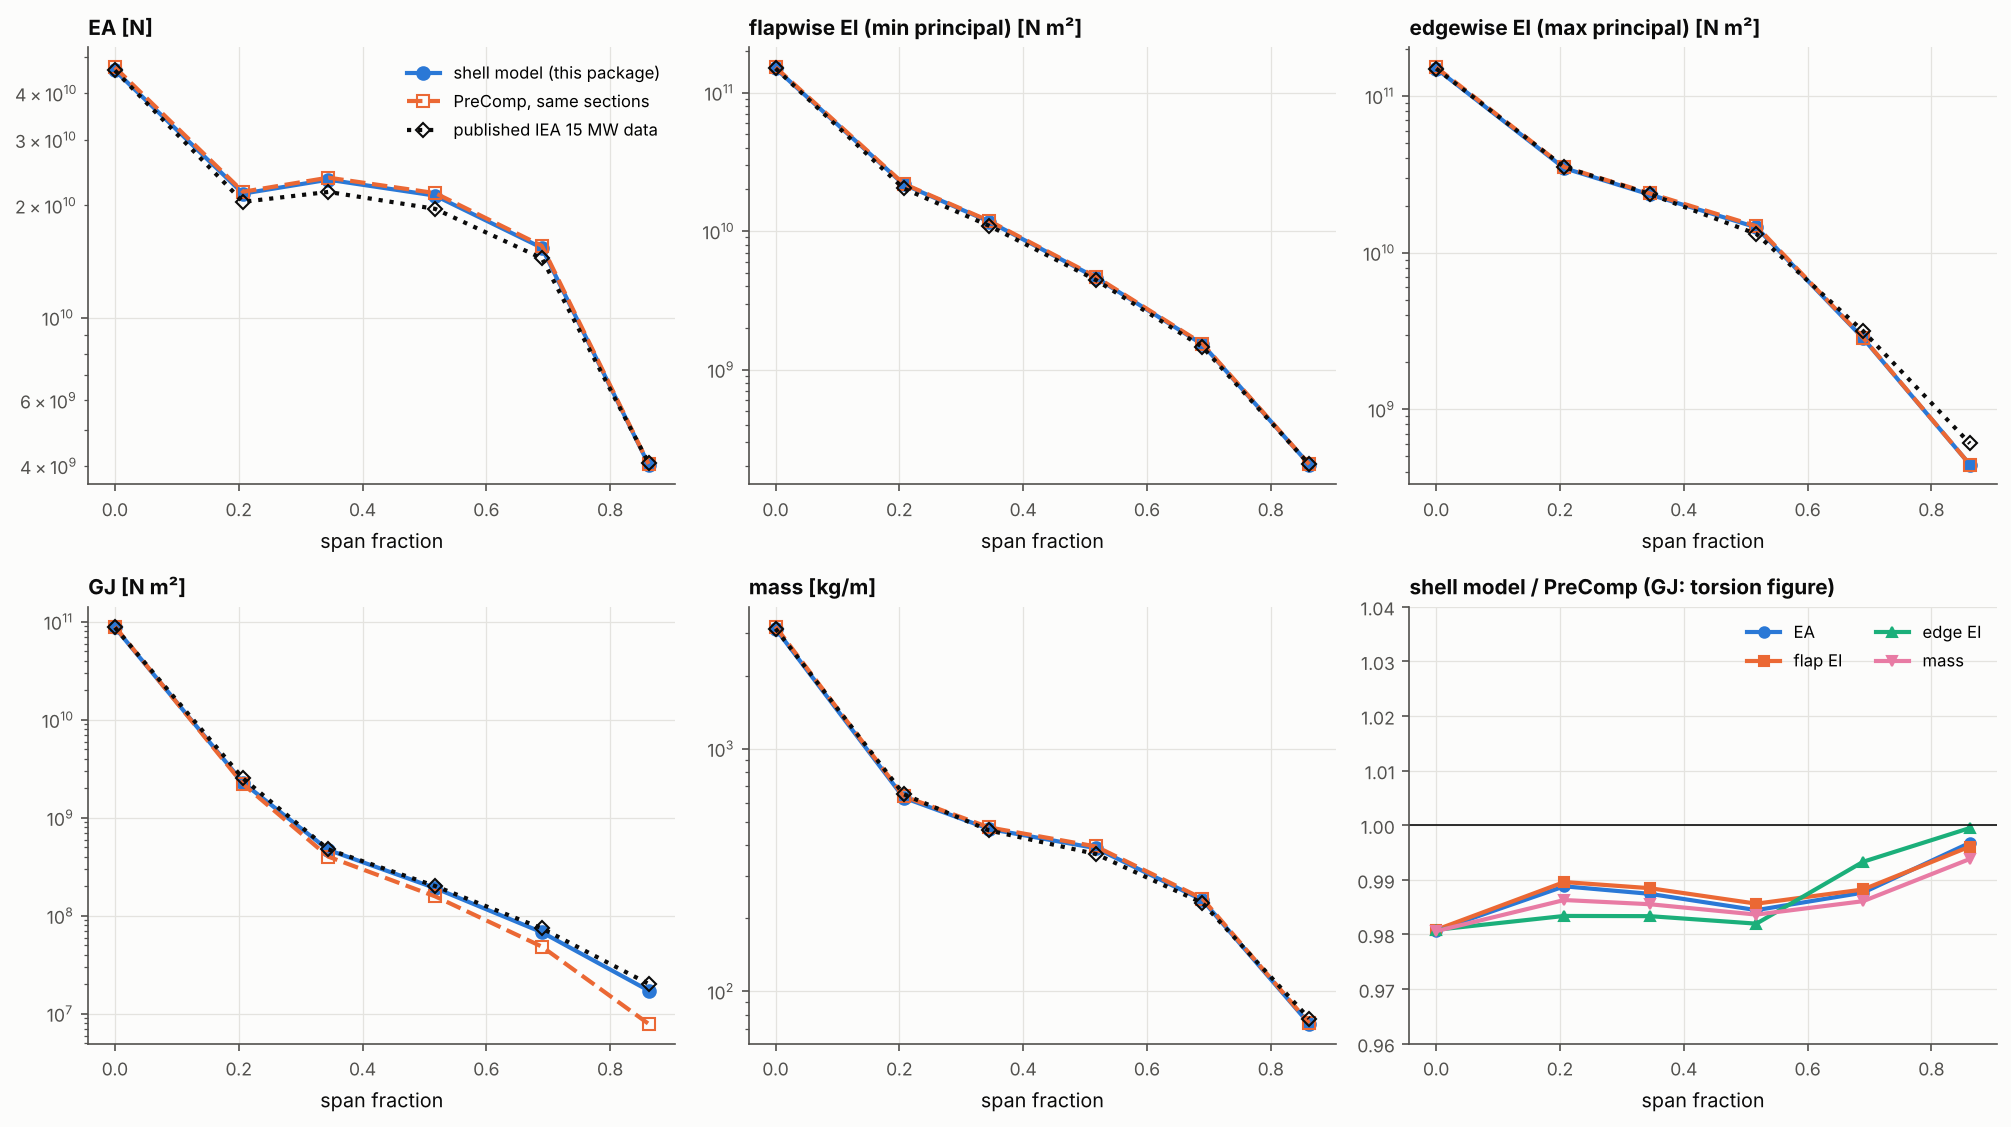
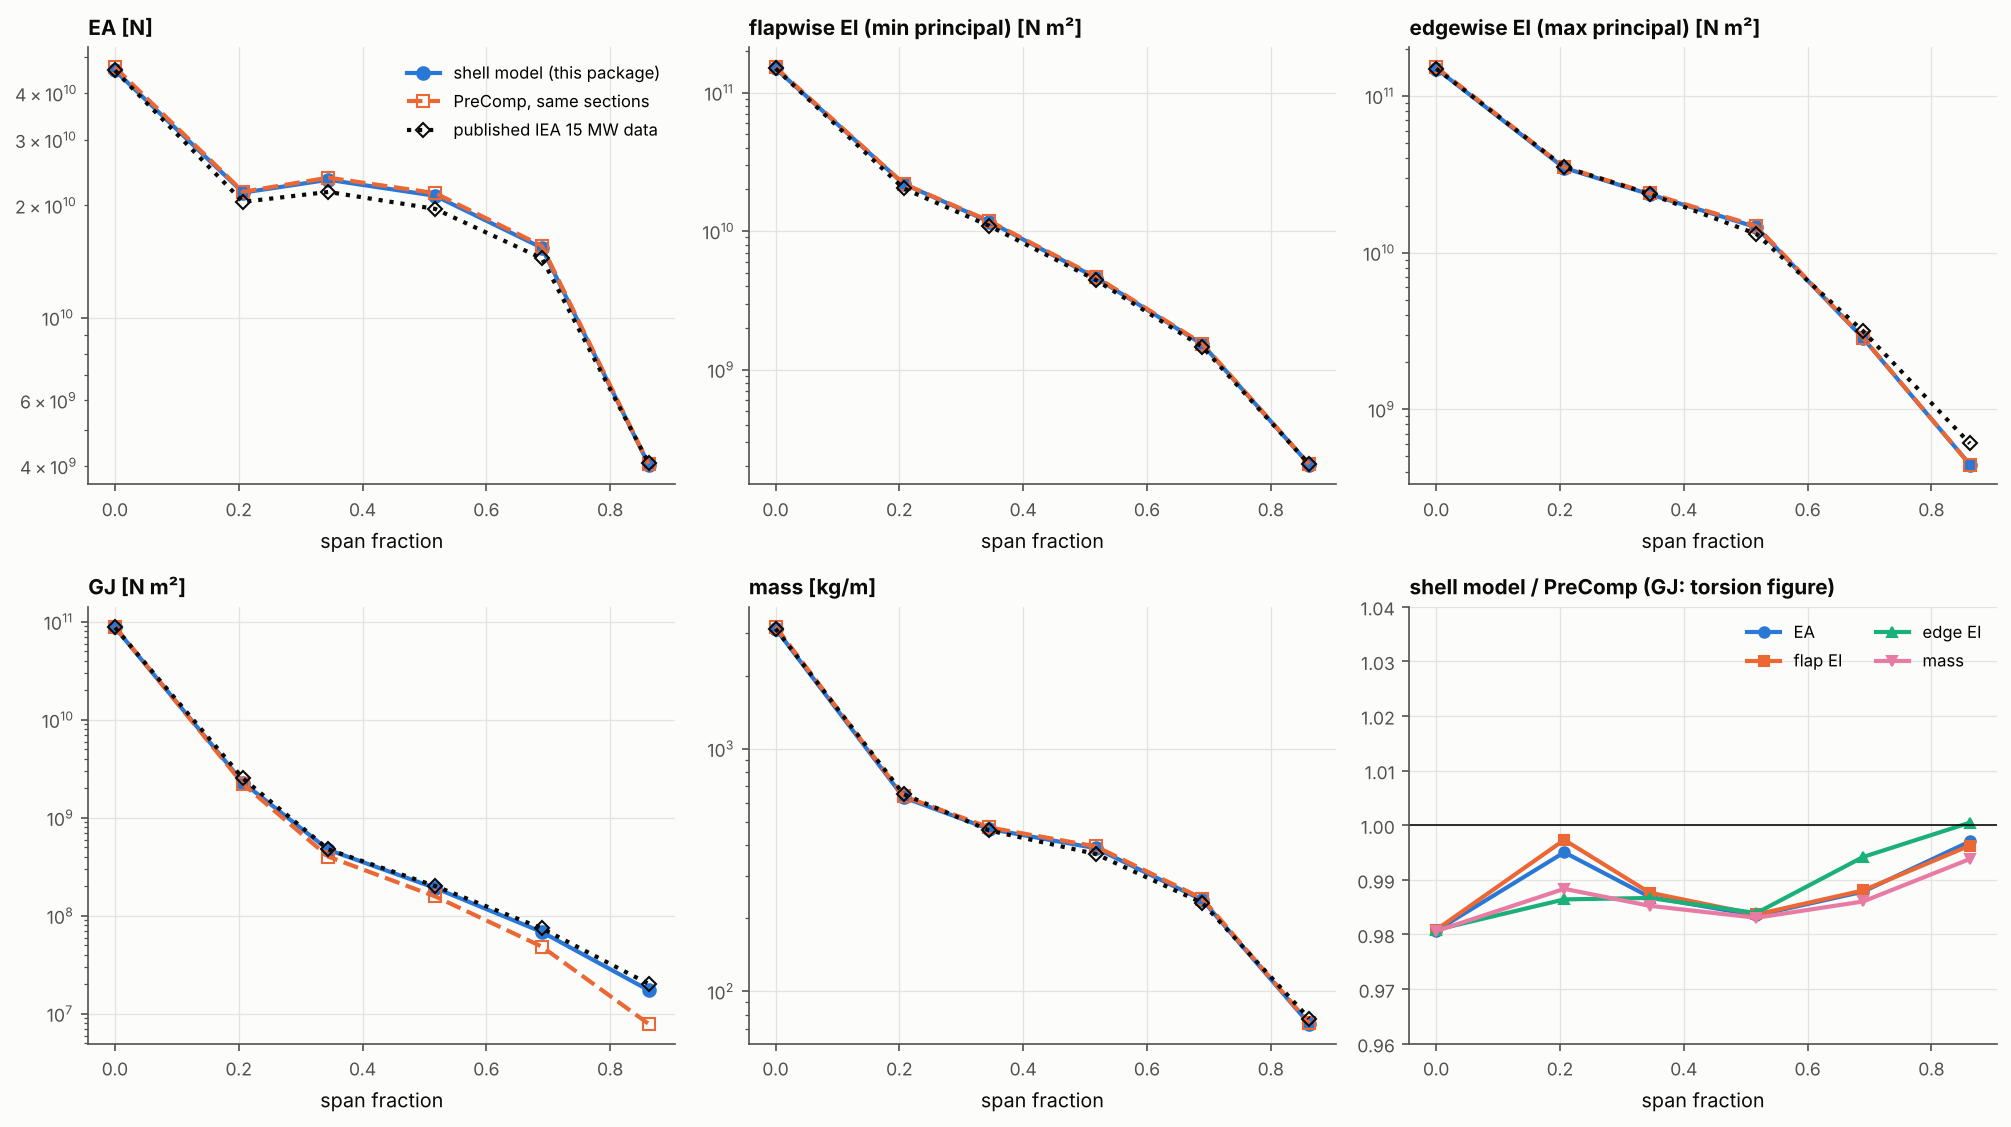
Re-run example 24 on the mid-surface default; update READMEs

Changed region(s): [[0.7091, 0.7143, 0.9866, 0.8385]]

diff --git a/examples/24_iea15mw_section_properties/README.md b/examples/24_iea15mw_section_properties/README.md
@@ -11,7 +11,7 @@ published data.
 
 ![EA, EI, GJ and mass along the span: shell model, PreComp and the published data](figures/iea15mw_properties.png)
 
-![Torsion of offset skins on flat and curved shells: a thick tube and the blade](figures/iea15mw_torsion.png)
+![Torsion: a thick tube meshed on its mid-surface and on its outer surface, and GJ of the blade](figures/iea15mw_torsion.png)
 
 ## The reference data
 
@@ -40,10 +40,10 @@ chord frame, for a prismatic segment.
 | Item | Value |
 |---|---|
 | Segment | Prismatic, 8 chords long, properties measured over the middle fifth |
-| Elements | Curved Quad8 FSDT, 32 along the span, chordwise size 1.5% of the perimeter (2300–3600 elements); a Quad4 model (40 along the span, 1%) for the torsion comparison |
-| Skins | On the outer mould line, laminates growing inward, as PreComp has them |
-| Regions | Every sector boundary on either surface and every web is a region boundary; each region takes its surface's sector laminate |
-| Webs | Straight, between the skins' outer mould lines at the PreComp web positions, as PreComp has them |
+| Elements | Curved Quad8 FSDT, 32 along the span, chordwise size 1.5% of the perimeter (2300–3400 elements); a Quad4 model (40 along the span, 1%) for the torsion comparison |
+| Skins | Laminates growing inward from the outer mould line, as PreComp has them, meshed on their mid-surface (the `BladeBuilder` default) |
+| Regions | Every sector boundary on either surface and every web is a region boundary (boundaries closer than 0.3% of the chord merged); each region takes its surface's sector laminate |
+| Webs | Straight, at the PreComp web positions, between the skins' mid-surfaces |
 | Trailing edge | Flatbacks closed by a web with the trailing-edge laminate; gaps under 1% of the chord are pinched closed |
 
 ```bash
@@ -76,36 +76,45 @@ It takes about 15 minutes (six curved-Quad8 and six Quad4 models).
    bending stiffnesses and GJ. Its axes turn out to be chord-aligned (its tension
    centre matches PreComp's at every station), so its shear centre is shown too.
 
-3. **Torsion check.** A thick steel tube with a known GJ is run with the skin on
-   its mid-surface and offset to its outer surface, on flat and curved shells.
+3. **Torsion check.** A thick steel tube with a known GJ is meshed on its
+   mid-surface (the default) and on its outer surface with the skin offset
+   inward, on flat and curved shells.
 
 ## Results
 
 | Station r [m] | EA | EI flap | EI edge | GJ | mass | tension centre x/c | shear centre x/c (shell / PreComp / published) |
 |---|---|---|---|---|---|---|---|
-| 4.0 | 1.000 | 1.000 | 1.000 | 0.952 | 1.000 | 0.500 / 0.500 | 0.494 / 0.500 / 0.500 |
-| 28.2 | 1.001 | 1.001 | 1.003 | 1.003 | 1.000 | 0.420 / 0.420 | 0.317 / 0.418 / 0.322 |
-| 44.3 | 1.001 | 1.000 | 1.000 | 1.155 | 1.000 | 0.367 / 0.366 | 0.285 / 0.362 / 0.290 |
-| 64.5 | 1.001 | 1.001 | 1.001 | 1.197 | 1.000 | 0.355 / 0.355 | 0.262 / 0.353 / 0.268 |
-| 84.7 | 1.000 | 1.001 | 0.998 | 1.373 | 0.999 | 0.320 / 0.320 | 0.233 / 0.320 / 0.255 |
-| 104.8 | 1.001 | 1.001 | 1.001 | 2.143 | 1.000 | 0.332 / 0.333 | 0.249 / 0.333 / 0.279 |
+| 4.0 | 0.981 | 0.981 | 0.981 | 0.981 | 0.981 | 0.500 / 0.500 | 0.500 / 0.500 / 0.500 |
+| 28.2 | 0.995 | 0.998 | 0.986 | 1.038 | 0.988 | 0.419 / 0.420 | 0.311 / 0.418 / 0.322 |
+| 44.3 | 0.987 | 0.988 | 0.986 | 1.174 | 0.985 | 0.365 / 0.366 | 0.284 / 0.362 / 0.290 |
+| 64.5 | 0.983 | 0.984 | 0.984 | 1.218 | 0.983 | 0.354 / 0.355 | 0.264 / 0.353 / 0.268 |
+| 84.7 | 0.988 | 0.988 | 0.994 | 1.410 | 0.986 | 0.319 / 0.320 | 0.237 / 0.320 / 0.255 |
+| 104.8 | 0.997 | 0.996 | 1.001 | 2.208 | 0.994 | 0.332 / 0.333 | 0.250 / 0.333 / 0.279 |
 
 Stiffness and mass columns are shell model / PreComp.
 
-- **Axial, bending, mass, tension centre: agree.** EA, both bending stiffnesses
-  and the mass are within 0.3% of PreComp at every station,
-  and the tension and mass centres within 0.1% of the chord. Since the geometry,
-  layup and materials are identical, this checks the section builder (airfoil,
-  sector mapping, laminate order, offsets, webs) and the stiffness extraction.
+- **Axial, bending, mass, tension centre: 0–2% below PreComp, for a known
+  reason.** EA, both bending stiffnesses and the mass are 0.981–1.001 of PreComp,
+  and the tension and mass centres agree within 0.1% of the chord. PreComp takes
+  each laminate's area as its mould-line length × thickness. The shell model,
+  meshed on the mid-surface, takes the mid-wall length, which is shorter by
+  about π t around a closed section. At the root tube (t/R = 0.04) that is the
+  1 − t/2R = 0.981 of the table, and there the shell model matches the published
+  data exactly: EA 4.605e10 against 4.605e10, mass 3127 against 3127 kg/m, GJ
+  8.756e10 against 8.749e10. With the skins left on the mould line
+  (`mesh_surface="outer"`), the shell model counts the same mould-line area as
+  PreComp and agrees with it within 0.3% at every station (example 26).
+  Either way the geometry, layup and materials are identical, so this checks the
+  section builder (airfoil, sector mapping, laminate order, webs) and the
+  stiffness extraction.
 - **Shear centre: follows the published data, not PreComp.** PreComp puts the
   shear centre on top of the tension centre at every station. The shell model
   puts it 8–10% of the chord further forward, between the webs, within 0.6% of
   the chord of the published value inboard and 2–3% outboard.
 - **GJ: between PreComp and the published data, closer to the published.** At
-  the root tube the shell model is 3% under the published GJ (the offset skin's
-  area is taken on the outer surface, as in the tube check) and PreComp is 2%
-  over it. Outboard, PreComp falls below half of the published GJ while the shell
-  model stays within 3–16% of it. PreComp's torsion comes from a simplified
+  the root tube the shell model is within 0.1% of the published GJ and PreComp is
+  2% over it. Outboard, PreComp falls below half of the published GJ while the
+  shell model stays within 1–14% of it. PreComp's torsion comes from a simplified
   thin-wall shear-flow model, and published comparisons with finite-element
   section tools (VABS, BECAS) report its torsional stiffness and shear centre as
   its least reliable outputs, which is what this shows.
@@ -115,28 +124,31 @@ Stiffness and mass columns are shell model / PreComp.
 
 ### Offset skins on flat shells lose torsion
 
-The torsion figure is the finding of this check. With the skin offset to the
-outer surface, flat facets (Quad4 and flat Quad8) under-predict the torsional
-stiffness of a thick tube: by 2% at t/R = 0.01, 7% at 0.02, 22% at 0.04 and 35% at
-0.06, and refining the mesh does not help. With the skin on its mid-surface the
-same Quad4 mesh is exact, and curved Quad8 with the offset is within 1–3% (the
-rest is the offset skin's area, taken on the outer surface; EA is high by the
-same amount). Bending and axial stiffness are not affected.
+The torsion figure is why the skins are meshed on their mid-surface. Meshed on the
+outer surface with the skin offset inward, flat facets (Quad4 and flat Quad8)
+under-predict the torsional stiffness of a thick tube: by 2% at t/R = 0.01, 7% at
+0.02, 22% at 0.04 and 35% at 0.06, and refining the mesh does not help. Meshed on
+its mid-surface the same Quad4 mesh is exact (0.999 at every thickness), and
+curved Quad8 with the offset is within 1–3% (the rest is the offset skin's area,
+taken on the outer surface; EA is high by the same amount). Bending and axial
+stiffness are not affected.
 
-On the blade this costs the Quad4 model 20% of GJ at the root tube (t/R = 0.04)
-and 6% at the max-chord station; elsewhere it is within 5% of curved Quad8. The
-likely mechanism: at a kink between two flat facets, a node's rotation about its
-own normal is a bending rotation for the neighbouring facets, and through the
-offset it moves their mid-surfaces in-plane at little cost (the error grows as
-the drilling stiffness is lowered). Curved Quad8 has a continuous normal and no
-kinks. Until the flat elements are fixed, use `element="quad8_curved"` where
-torsion of thick-walled sections matters; `tests/test_blade.py` records the
-limitation as an expected failure.
+On the blade, with the mid-surface default, the Quad4 model agrees with
+curved Quad8 in GJ within 1.3% at every station (0.980 against 0.981 of PreComp at the root
+tube). On the mould line with offsets it lost 20% of GJ at the root tube and 6% at
+max chord (example 26). The likely mechanism: at a kink between two flat facets, a
+node's rotation about its own normal is a bending rotation for the neighbouring
+facets, and through the offset it moves their mid-surfaces in-plane at little cost
+(the error grows as the drilling stiffness is lowered). Curved Quad8 has a
+continuous normal and no kinks. `tests/test_blade.py` records the limitation on
+mould-line meshes as an expected failure.
 
 ## Things to try
 
 - Add stations: edit `TARGETS` in `data/prepare_reference_data.py` and rerun it
   (needs `pip install wisdem pyyaml`).
-- Set `QUAD4` as the main model to see the root-tube GJ fall.
+- Pass `mesh_surface="outer"` to `build_segment` to put the skins back on the
+  mould line: EA and mass then match PreComp within 0.3%, and the Quad4 root-tube
+  GJ falls by 20%.
 - Compare the flap-edge coupling `EI_flap_edge` with PreComp's `EI_flap_edge`
   in the JSON, both in the chord frame.

diff --git a/README.md b/README.md
@@ -393,7 +393,7 @@ CalculiX, PreComp and the published IEA 15 MW data (see the
 - Layered Hex8 and Hex20 solids against Pagano within about 1–2% (deflection and stresses), shell–solid coupling within 0.1% of an all-shell model, and curved Quad8 within 0.2% of CalculiX S8R on a curved panel.
 - Beam section properties of a thin circular tube against closed-form EA, EI and GJ (exact with curved Quad8, about 1% with Quad4), and RBE2/RBE3 links against hand calculations.
 - A direct comparison with CalculiX, which runs only when `ccx` is installed. On the benchmark plate, displacements agree within about 2% and in-plane ply stresses within about 3%.
-- The IEA 15 MW reference blade ([example 24](https://github.com/samhughes-fea/composite-laminate-fea/tree/main/examples/24_iea15mw_section_properties/)): from its published layup, EA, EI, mass and the tension centre agree with PreComp on the same sections within 0.3% at six stations; the shear centre follows the published reference data rather than PreComp, and GJ lies between the two, close to the published data outboard, where PreComp's thin-wall torsion falls to half of it. A 20 m segment of the same blade ([example 25](https://github.com/samhughes-fea/composite-laminate-fea/tree/main/examples/25_blade_calculix_crosscheck/)) agrees with CalculiX S8R within about 1% in deflection, 2% in twist and 6% in spar-cap fibre stress.
+- The IEA 15 MW reference blade ([example 24](https://github.com/samhughes-fea/composite-laminate-fea/tree/main/examples/24_iea15mw_section_properties/)): from its published layup, the tension centre agrees with PreComp on the same sections within 0.1% of the chord at six stations, and EA, EI and mass are 0–2% below PreComp because the mid-surface mesh takes each wall's mid-line length where PreComp takes the mould line (on the mould line they agree within 0.3%). At the root tube the shell model matches the published EA, GJ and mass within 0.1%. The shear centre follows the published reference data rather than PreComp, and GJ lies between the two, close to the published data outboard, where PreComp's thin-wall torsion falls to half of it. A 20 m segment of the same blade ([example 25](https://github.com/samhughes-fea/composite-laminate-fea/tree/main/examples/25_blade_calculix_crosscheck/)) agrees with CalculiX S8R within 0.2% in deflection, 1.2% in twist and 6% in spar-cap fibre stress.
 
 ## Limitations
 

diff --git a/examples/README.md b/examples/README.md
@@ -37,9 +37,9 @@ and how to read the results.
 | 21 | [Spar cap ply drops](21_spar_cap_ply_drops/) | A tapered, twisted blade whose caps come from a ply book with ply drops, against a thin-walled beam; per-ply failure; ParaView output | `Layup`, `PlyDefinition`, `write_vtu` |
 | 22 | [Ply drop in 3D](22_ply_drop_solid_detail/) | Interlaminar shear and peel at a cap ply drop from layered Hex20 solids inside a shell model; equilibrium checks and a mesh study of the corner singularity | `solid_block`, `merge_coincident_nodes`, `couple_shell_to_solid` |
 | 23 | [Sandwich blade segment](23_blade_segment/) | Foam-cored panels, caps and webs under pressure, gravity and outboard loads; shell against beam | `distributing_link`, `beam_section_properties`, `write_vtu` |
-| 24 | [IEA 15 MW section properties](24_iea15mw_section_properties/) | The published reference blade at six stations against PreComp and the published data; torsion of offset skins on flat and curved shells | `BladeBuilder`, `beam_section_properties` |
+| 24 | [IEA 15 MW section properties](24_iea15mw_section_properties/) | The published reference blade at six stations against PreComp and the published data; why skins are meshed on their mid-surface (torsion of offset skins on flat shells) | `BladeBuilder`, `beam_section_properties` |
 | 25 | [CalculiX on a blade segment](25_blade_calculix_crosscheck/) | A 20 m IEA 15 MW segment under operating loads: deflection, twist and ply stresses against CalculiX S8R | `CalculiXKernelAdapter`, `AnalysisModel` |
-| 26 | [Mid-surface meshing](26_mid_surface_meshing/) | Skins on the mould line with offsets or on their mid-surface: thick-tube torsion and six IEA 15 MW stations, for Quad4, flat and curved Quad8 | `BladeBuilder(mesh_surface="mid")`, `BladeMesh.to_mid_surface` |
+| 26 | [Mid-surface meshing](26_mid_surface_meshing/) | Skins on the mould line with offsets or on their mid-surface: thick-tube torsion and six IEA 15 MW stations, for Quad4, flat and curved Quad8 | `BladeBuilder(mesh_surface=...)`, `BladeMesh.to_mid_surface` |
 
 All examples are linear static analyses, and each one compares its results with a
 reference: a closed-form or series solution, exact 3D elasticity, laminate or
